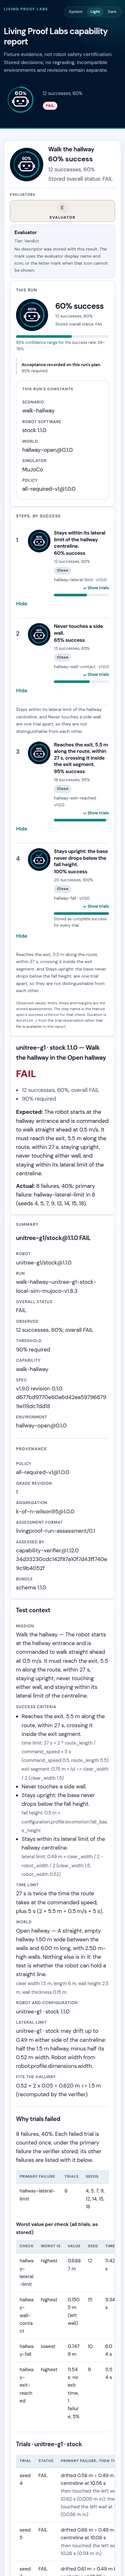
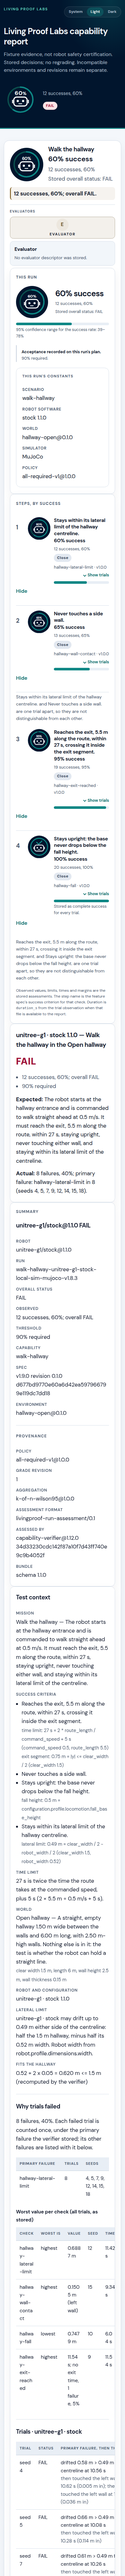
Correct the descriptor-less mark and call out a failed assessment.
The fallback mark no longer invents a tier, and its note only says that
no evaluator descriptor was stored. One satisfied evaluator is singular.
A failed assessment with no findings gets one plain line of successes
and the percentage.

Changed region(s): [[0.1231, 0.0625, 0.9231, 1.0], [0.3077, 0.9375, 0.4308, 1.0], [0.0615, 0.0625, 0.0923, 0.0938]]

diff --git a/docs/evaluator-summary/g1-expanded.html b/docs/evaluator-summary/g1-expanded.html
@@ -1051,8 +1051,14 @@ details[open] > .step-summary .disclose-open { display: inline; }
 .eval-panel h4 { margin: 0 0 0.2rem; font-size: 0.95rem; }
 .eval-panel .purpose, .eval-panel .more { margin: 0.35rem 0 0; }
 .eval-panel .meta, .descriptor-note { margin: 0.2rem 0 0; color: var(--text-muted); font-size: 0.86rem; }
-.callout-ok, .callout-headline { margin: 0.75rem 0 0; }
-.callout-headline { font-weight: 650; }
+.callout-ok, .callout-headline, .assessment-failure { margin: 0.75rem 0 0; }
+.callout-headline, .assessment-failure { font-weight: 650; }
+.assessment-failure {
+  padding: 0.4rem 0.6rem;
+  border-radius: 0.5rem;
+  border-left: 3px solid var(--speak);
+  background: color-mix(in srgb, var(--speak) 8%, var(--surface));
+}
 .callouts { list-style: none; margin: 0.55rem 0 0; padding: 0; display: grid; gap: 0.35rem; }
 .callouts li {
   display: flex;
@@ -1110,7 +1116,7 @@ details[open] > .step-summary .disclose-open { display: inline; }
 <circle cx='591.8' cy='547.9' r='33.2'/>
 <rect x='448' y='620' width='114' height='22' rx='11'/>
 </g>
-</svg></div><div><h2 class='run-title'>Walk the hallway</h2><p class='pct'>60% success</p><p class='count'>12 successes, 60%</p><p class='stored-status'>Stored overall status: FAIL</p></div></div><div class='evaluators'><p class='evaluators-label'>Evaluators</p><div class='eval-row' style='--eval-count:1'><details open class='eval-disclosure' name='run-evaluators' style='--col:1'><summary class='eval-mark is-speaking'><span class='eval-face' role='img' aria-label='Evaluator'><span class='eval-fallback' aria-hidden='true'>E</span></span><span class='eval-name eval-name-full'>Evaluator</span></summary><div class='eval-panel'><h4>Evaluator</h4><p class='meta'>Tier: Verdict</p><p class='descriptor-note'>No descriptor was stored with this result. The mark uses the evaluator display name and icon, or the letter mark when that icon cannot be shown.</p></div><div class='stored-run' style='--eval-count:1'><div class='card scenario-steps'><h2>This run</h2><div class='split'><div><div class='run-hero'><div class='badge'><svg class='success-ring' xmlns='http://www.w3.org/2000/svg' viewBox='0 0 1024 1024' role='img' aria-label='60% success' width='128' height='128'>
+</svg></div><div><h2 class='run-title'>Walk the hallway</h2><p class='pct'>60% success</p><p class='count'>12 successes, 60%</p><p class='stored-status'>Stored overall status: FAIL</p></div></div><p class='assessment-failure'>12 successes, 60%; overall FAIL.</p><div class='evaluators'><p class='evaluators-label'>Evaluators</p><div class='eval-row' style='--eval-count:1'><details open class='eval-disclosure' name='run-evaluators' style='--col:1'><summary class='eval-mark is-speaking'><span class='eval-face' role='img' aria-label='Evaluator'><span class='eval-fallback' aria-hidden='true'>E</span></span><span class='eval-name eval-name-full'>Evaluator</span></summary><div class='eval-panel'><h4>Evaluator</h4><p class='descriptor-note'>No evaluator descriptor was stored.</p></div><div class='stored-run' style='--eval-count:1'><div class='card scenario-steps'><h2>This run</h2><div class='split'><div><div class='run-hero'><div class='badge'><svg class='success-ring' xmlns='http://www.w3.org/2000/svg' viewBox='0 0 1024 1024' role='img' aria-label='60% success' width='128' height='128'>
 <title>60% success</title>
 <circle cx='512' cy='512' r='512' fill='#01152D'/>
 <circle cx='510.5' cy='505.75' r='381.1' fill='none' stroke='#0B4F4D' stroke-width='42'/>

diff --git a/tests/fixtures/robots/g1.html b/tests/fixtures/robots/g1.html
@@ -1051,8 +1051,14 @@ details[open] > .step-summary .disclose-open { display: inline; }
 .eval-panel h4 { margin: 0 0 0.2rem; font-size: 0.95rem; }
 .eval-panel .purpose, .eval-panel .more { margin: 0.35rem 0 0; }
 .eval-panel .meta, .descriptor-note { margin: 0.2rem 0 0; color: var(--text-muted); font-size: 0.86rem; }
-.callout-ok, .callout-headline { margin: 0.75rem 0 0; }
-.callout-headline { font-weight: 650; }
+.callout-ok, .callout-headline, .assessment-failure { margin: 0.75rem 0 0; }
+.callout-headline, .assessment-failure { font-weight: 650; }
+.assessment-failure {
+  padding: 0.4rem 0.6rem;
+  border-radius: 0.5rem;
+  border-left: 3px solid var(--speak);
+  background: color-mix(in srgb, var(--speak) 8%, var(--surface));
+}
 .callouts { list-style: none; margin: 0.55rem 0 0; padding: 0; display: grid; gap: 0.35rem; }
 .callouts li {
   display: flex;
@@ -1110,7 +1116,7 @@ details[open] > .step-summary .disclose-open { display: inline; }
 <circle cx='591.8' cy='547.9' r='33.2'/>
 <rect x='448' y='620' width='114' height='22' rx='11'/>
 </g>
-</svg></div><div><h2 class='run-title'>Walk the hallway</h2><p class='pct'>60% success</p><p class='count'>12 successes, 60%</p><p class='stored-status'>Stored overall status: FAIL</p></div></div><div class='evaluators'><p class='evaluators-label'>Evaluators</p><div class='eval-row' style='--eval-count:1'><details class='eval-disclosure' name='run-evaluators' style='--col:1'><summary class='eval-mark is-speaking'><span class='eval-face' role='img' aria-label='Evaluator'><span class='eval-fallback' aria-hidden='true'>E</span></span><span class='eval-name eval-name-full'>Evaluator</span></summary><div class='eval-panel'><h4>Evaluator</h4><p class='meta'>Tier: Verdict</p><p class='descriptor-note'>No descriptor was stored with this result. The mark uses the evaluator display name and icon, or the letter mark when that icon cannot be shown.</p></div><div class='stored-run' style='--eval-count:1'><div class='card scenario-steps'><h2>This run</h2><div class='split'><div><div class='run-hero'><div class='badge'><svg class='success-ring' xmlns='http://www.w3.org/2000/svg' viewBox='0 0 1024 1024' role='img' aria-label='60% success' width='128' height='128'>
+</svg></div><div><h2 class='run-title'>Walk the hallway</h2><p class='pct'>60% success</p><p class='count'>12 successes, 60%</p><p class='stored-status'>Stored overall status: FAIL</p></div></div><p class='assessment-failure'>12 successes, 60%; overall FAIL.</p><div class='evaluators'><p class='evaluators-label'>Evaluators</p><div class='eval-row' style='--eval-count:1'><details class='eval-disclosure' name='run-evaluators' style='--col:1'><summary class='eval-mark is-speaking'><span class='eval-face' role='img' aria-label='Evaluator'><span class='eval-fallback' aria-hidden='true'>E</span></span><span class='eval-name eval-name-full'>Evaluator</span></summary><div class='eval-panel'><h4>Evaluator</h4><p class='descriptor-note'>No evaluator descriptor was stored.</p></div><div class='stored-run' style='--eval-count:1'><div class='card scenario-steps'><h2>This run</h2><div class='split'><div><div class='run-hero'><div class='badge'><svg class='success-ring' xmlns='http://www.w3.org/2000/svg' viewBox='0 0 1024 1024' role='img' aria-label='60% success' width='128' height='128'>
 <title>60% success</title>
 <circle cx='512' cy='512' r='512' fill='#01152D'/>
 <circle cx='510.5' cy='505.75' r='381.1' fill='none' stroke='#0B4F4D' stroke-width='42'/>

diff --git a/tests/fixtures/robots/go1.html b/tests/fixtures/robots/go1.html
@@ -1051,8 +1051,14 @@ details[open] > .step-summary .disclose-open { display: inline; }
 .eval-panel h4 { margin: 0 0 0.2rem; font-size: 0.95rem; }
 .eval-panel .purpose, .eval-panel .more { margin: 0.35rem 0 0; }
 .eval-panel .meta, .descriptor-note { margin: 0.2rem 0 0; color: var(--text-muted); font-size: 0.86rem; }
-.callout-ok, .callout-headline { margin: 0.75rem 0 0; }
-.callout-headline { font-weight: 650; }
+.callout-ok, .callout-headline, .assessment-failure { margin: 0.75rem 0 0; }
+.callout-headline, .assessment-failure { font-weight: 650; }
+.assessment-failure {
+  padding: 0.4rem 0.6rem;
+  border-radius: 0.5rem;
+  border-left: 3px solid var(--speak);
+  background: color-mix(in srgb, var(--speak) 8%, var(--surface));
+}
 .callouts { list-style: none; margin: 0.55rem 0 0; padding: 0; display: grid; gap: 0.35rem; }
 .callouts li {
   display: flex;
@@ -1110,7 +1116,7 @@ details[open] > .step-summary .disclose-open { display: inline; }
 <circle cx='591.8' cy='547.9' r='33.2'/>
 <rect x='448' y='620' width='114' height='22' rx='11'/>
 </g>
-</svg></div><div><h2 class='run-title'>Walk the hallway</h2><p class='pct'>75% success</p><p class='count'>15 successes, 75%</p><p class='stored-status'>Stored overall status: FAIL</p></div></div><div class='evaluators'><p class='evaluators-label'>Evaluators</p><div class='eval-row' style='--eval-count:1'><details class='eval-disclosure' name='run-evaluators' style='--col:1'><summary class='eval-mark is-speaking'><span class='eval-face' role='img' aria-label='Evaluator'><span class='eval-fallback' aria-hidden='true'>E</span></span><span class='eval-name eval-name-full'>Evaluator</span></summary><div class='eval-panel'><h4>Evaluator</h4><p class='meta'>Tier: Verdict</p><p class='descriptor-note'>No descriptor was stored with this result. The mark uses the evaluator display name and icon, or the letter mark when that icon cannot be shown.</p></div><div class='stored-run' style='--eval-count:1'><div class='card scenario-steps'><h2>This run</h2><div class='split'><div><div class='run-hero'><div class='badge'><svg class='success-ring' xmlns='http://www.w3.org/2000/svg' viewBox='0 0 1024 1024' role='img' aria-label='75% success' width='128' height='128'>
+</svg></div><div><h2 class='run-title'>Walk the hallway</h2><p class='pct'>75% success</p><p class='count'>15 successes, 75%</p><p class='stored-status'>Stored overall status: FAIL</p></div></div><p class='assessment-failure'>15 successes, 75%; overall FAIL.</p><div class='evaluators'><p class='evaluators-label'>Evaluators</p><div class='eval-row' style='--eval-count:1'><details class='eval-disclosure' name='run-evaluators' style='--col:1'><summary class='eval-mark is-speaking'><span class='eval-face' role='img' aria-label='Evaluator'><span class='eval-fallback' aria-hidden='true'>E</span></span><span class='eval-name eval-name-full'>Evaluator</span></summary><div class='eval-panel'><h4>Evaluator</h4><p class='descriptor-note'>No evaluator descriptor was stored.</p></div><div class='stored-run' style='--eval-count:1'><div class='card scenario-steps'><h2>This run</h2><div class='split'><div><div class='run-hero'><div class='badge'><svg class='success-ring' xmlns='http://www.w3.org/2000/svg' viewBox='0 0 1024 1024' role='img' aria-label='75% success' width='128' height='128'>
 <title>75% success</title>
 <circle cx='512' cy='512' r='512' fill='#01152D'/>
 <circle cx='510.5' cy='505.75' r='381.1' fill='none' stroke='#0B4F4D' stroke-width='42'/>

diff --git a/tests/fixtures/robots/t1.html b/tests/fixtures/robots/t1.html
@@ -1051,8 +1051,14 @@ details[open] > .step-summary .disclose-open { display: inline; }
 .eval-panel h4 { margin: 0 0 0.2rem; font-size: 0.95rem; }
 .eval-panel .purpose, .eval-panel .more { margin: 0.35rem 0 0; }
 .eval-panel .meta, .descriptor-note { margin: 0.2rem 0 0; color: var(--text-muted); font-size: 0.86rem; }
-.callout-ok, .callout-headline { margin: 0.75rem 0 0; }
-.callout-headline { font-weight: 650; }
+.callout-ok, .callout-headline, .assessment-failure { margin: 0.75rem 0 0; }
+.callout-headline, .assessment-failure { font-weight: 650; }
+.assessment-failure {
+  padding: 0.4rem 0.6rem;
+  border-radius: 0.5rem;
+  border-left: 3px solid var(--speak);
+  background: color-mix(in srgb, var(--speak) 8%, var(--surface));
+}
 .callouts { list-style: none; margin: 0.55rem 0 0; padding: 0; display: grid; gap: 0.35rem; }
 .callouts li {
   display: flex;
@@ -1110,7 +1116,7 @@ details[open] > .step-summary .disclose-open { display: inline; }
 <circle cx='591.8' cy='547.9' r='33.2'/>
 <rect x='448' y='620' width='114' height='22' rx='11'/>
 </g>
-</svg></div><div><h2 class='run-title'>Walk the hallway</h2><p class='pct'>0% success</p><p class='count'>0 successes, 0%</p><p class='stored-status'>Stored overall status: FAIL</p></div></div><div class='evaluators'><p class='evaluators-label'>Evaluators</p><div class='eval-row' style='--eval-count:1'><details class='eval-disclosure' name='run-evaluators' style='--col:1'><summary class='eval-mark is-speaking'><span class='eval-face' role='img' aria-label='Evaluator'><span class='eval-fallback' aria-hidden='true'>E</span></span><span class='eval-name eval-name-full'>Evaluator</span></summary><div class='eval-panel'><h4>Evaluator</h4><p class='meta'>Tier: Verdict</p><p class='descriptor-note'>No descriptor was stored with this result. The mark uses the evaluator display name and icon, or the letter mark when that icon cannot be shown.</p></div><div class='stored-run' style='--eval-count:1'><div class='card scenario-steps'><h2>This run</h2><div class='split'><div><div class='run-hero'><div class='badge'><svg class='success-ring' xmlns='http://www.w3.org/2000/svg' viewBox='0 0 1024 1024' role='img' aria-label='0% success' width='128' height='128'>
+</svg></div><div><h2 class='run-title'>Walk the hallway</h2><p class='pct'>0% success</p><p class='count'>0 successes, 0%</p><p class='stored-status'>Stored overall status: FAIL</p></div></div><p class='assessment-failure'>0 successes, 0%; overall FAIL.</p><div class='evaluators'><p class='evaluators-label'>Evaluators</p><div class='eval-row' style='--eval-count:1'><details class='eval-disclosure' name='run-evaluators' style='--col:1'><summary class='eval-mark is-speaking'><span class='eval-face' role='img' aria-label='Evaluator'><span class='eval-fallback' aria-hidden='true'>E</span></span><span class='eval-name eval-name-full'>Evaluator</span></summary><div class='eval-panel'><h4>Evaluator</h4><p class='descriptor-note'>No evaluator descriptor was stored.</p></div><div class='stored-run' style='--eval-count:1'><div class='card scenario-steps'><h2>This run</h2><div class='split'><div><div class='run-hero'><div class='badge'><svg class='success-ring' xmlns='http://www.w3.org/2000/svg' viewBox='0 0 1024 1024' role='img' aria-label='0% success' width='128' height='128'>
 <title>0% success</title>
 <circle cx='512' cy='512' r='512' fill='#01152D'/>
 <circle cx='510.5' cy='505.75' r='381.1' fill='none' stroke='#0B4F4D' stroke-width='42'/>

diff --git a/tests/test_evaluator_summary.py b/tests/test_evaluator_summary.py
@@ -123,8 +123,9 @@ def test_ordering_headline_plurals_and_all_quiet():
     assert grouping_headline(1, 1) == "1 evaluator reported 1 problem"
     assert grouping_headline(3, 3) == "3 evaluators reported 3 problems"
     assert grouping_headline(5, 7) == "5 evaluators reported 7 problems"
-    assert all_quiet_line(1) == "All 1 evaluators are satisfied."
+    assert all_quiet_line(1) == "1 evaluator is satisfied."
     assert all_quiet_line(5) == "All 5 evaluators are satisfied."
+    assert "evaluators" not in all_quiet_line(1)
     views = views_from(
         [
             _output("beta", tier="observation", findings=[{"text": "b0"}, {"text": "b1", "tier": "verdict"}]),
@@ -150,6 +151,9 @@ def test_ordering_headline_plurals_and_all_quiet():
         ]
     )
     assert "3 evaluators reported 4 problems" in three
+    quiet_one = _card(outputs=[_output("Alpha", tier="verdict")])
+    assert "1 evaluator is satisfied." in quiet_one
+    assert "evaluators are satisfied" not in quiet_one
     quiet = _card(outputs=[_output("Alpha", tier="verdict"), _output("Beta", tier="review")])
     assert "All 2 evaluators are satisfied." in quiet
     assert "evaluators reported" not in quiet
@@ -180,10 +184,29 @@ def test_non_verdict_findings_do_not_change_the_stored_ring():
     assert ring(verdict) != ring(quiet)
 
 
-def test_g1_shows_one_fallback_mark_and_keeps_the_ring_visible():
+def test_a_failing_assessment_with_no_findings_is_called_out_and_a_pass_is_not():
+    failed = _visible(render(report(bundle("g1")), "html"))
+    line = "<p class='assessment-failure'>12 successes, 60%; overall FAIL.</p>"
+    assert line in failed
+    assert failed.index(line) < failed.index("<details class='eval-disclosure'")
+    panel = failed[failed.index("<div class='eval-panel'>") : failed.index("<div class='stored-run'")]
+    assert "Tier:" not in panel
+    assert panel.count("No evaluator descriptor was stored.") == 1
+    assert "display name" not in panel and "icon" not in panel
+    passed = report(bundle("g1"))
+    passed["summaries"][0]["grade"] = "PASS"
+    passed["summaries"][0]["k"] = passed["summaries"][0]["n"]
+    quiet = render(passed, "html")
+    assert "<p class='assessment-failure'" not in quiet
+    assert "1 evaluator is satisfied." in quiet
+    assert "evaluators are satisfied" not in quiet
     page = render(report(bundle("g1")), "html")
     visible = _visible(page)
-    assert "No descriptor was stored with this result." in visible
+    assert "No evaluator descriptor was stored." in visible
+    assert "display name" not in visible[visible.index("<div class='eval-panel'>"):visible.index("<div class='stored-run'")]
+    panel = visible[visible.index("<div class='eval-panel'>") : visible.index("<div class='stored-run'")]
+    assert "Tier:" not in panel
+    assert "icon" not in panel
     assert "eval-name-full'>Evaluator</span>" in visible
     assert ">E</span>" in visible
     assert "Scenario evaluator" not in visible
@@ -196,6 +219,7 @@ def test_g1_shows_one_fallback_mark_and_keeps_the_ring_visible():
     details = visible.index("<details class='eval-disclosure'")
     assert "<svg class='success-ring'" in visible[:details]
     assert "Walk the hallway" in visible[:details]
+    assert "<p class='assessment-failure'>12 successes, 60%; overall FAIL.</p>" in visible[:details]
     assert "open" not in visible[details : details + 80]
     assert visible.index("<h2>Steps, by success</h2>") > details
     card = visible[visible.index("<article class='summary-card'") :]

diff --git a/src/livingproof_capability_report/evaluators.py b/src/livingproof_capability_report/evaluators.py
@@ -35,10 +35,7 @@ TIER_LABEL = {
     "observation": "Observation",
 }
 RESULT_FORMAT = re.compile(r"^livingproof-evaluator-result/1\.\d+\.\d+$")
-NO_DESCRIPTOR = (
-    "No descriptor was stored with this result. The mark uses the evaluator "
-    "display name and icon, or the letter mark when that icon cannot be shown."
-)
+NO_DESCRIPTOR = "No evaluator descriptor was stored."
 _CHECK = (
     "<svg xmlns='http://www.w3.org/2000/svg' viewBox='0 0 16 16' aria-hidden='true' "
     "focusable='false'><path d='M3.2 8.2 6.1 11.1 12.8 4.4' fill='none' stroke='currentColor' "
@@ -100,6 +97,8 @@ def grouping_headline(n, m):
 
 
 def all_quiet_line(n):
+    if n == 1:
+        return "1 evaluator is satisfied."
     return f"All {n} evaluators are satisfied."
 
 
@@ -399,10 +398,30 @@ def _run_failed(summary):
 
 
 def _fallback_view():
-    view = resolve_one({"tier": "verdict"})
+    view = resolve_one({})
     view["missing_descriptor"] = True
+    view["tier"] = ""
     view["identity"] = FALLBACK_TITLE
     return view
+
+
+def assessment_failure_line(summary):
+    """One plain callout from the assessment when it failed and no finding was stored.
+
+    Successes and the percentage only. No fraction, and no reason the assessment
+    did not record.
+    """
+    if not _run_failed(summary):
+        return ""
+    counted = success_count(summary.get("k"), summary.get("n"))
+    grade = summary.get("grade") if isinstance(summary.get("grade"), str) else ""
+    if counted and grade and grade != "PASS":
+        return f"{counted}; overall {grade}."
+    if counted:
+        return f"{counted}."
+    if grade and grade != "PASS":
+        return f"Overall {grade}."
+    return ""
 
 
 def _hero(report, summary):
@@ -627,7 +646,13 @@ def summary_front(report, stored_body, evidence_results=None):
         view["findings"] or view.get("force_speaking") for view in views
     )
     heroes = "".join(_hero(report, summary) for summary in runs)
+    failure = ""
+    if not any(view["findings"] for view in views):
+        lines = [assessment_failure_line(summary) for summary in runs]
+        failure = "".join(
+            f"<p class='assessment-failure'>{esc(line)}</p>" for line in lines if line
+        )
     return (
         "<article class='summary-card'>"
-        f"{heroes}{render_marks(views, group='run-evaluators', quiet=quiet)}</article>"
+        f"{heroes}{failure}{render_marks(views, group='run-evaluators', quiet=quiet)}</article>"
     )

diff --git a/src/livingproof_capability_report/html_theme.py b/src/livingproof_capability_report/html_theme.py
@@ -969,8 +969,14 @@ details[open] > .step-summary .disclose-open { display: inline; }
 .eval-panel h4 { margin: 0 0 0.2rem; font-size: 0.95rem; }
 .eval-panel .purpose, .eval-panel .more { margin: 0.35rem 0 0; }
 .eval-panel .meta, .descriptor-note { margin: 0.2rem 0 0; color: var(--text-muted); font-size: 0.86rem; }
-.callout-ok, .callout-headline { margin: 0.75rem 0 0; }
-.callout-headline { font-weight: 650; }
+.callout-ok, .callout-headline, .assessment-failure { margin: 0.75rem 0 0; }
+.callout-headline, .assessment-failure { font-weight: 650; }
+.assessment-failure {
+  padding: 0.4rem 0.6rem;
+  border-radius: 0.5rem;
+  border-left: 3px solid var(--speak);
+  background: color-mix(in srgb, var(--speak) 8%, var(--surface));
+}
 .callouts { list-style: none; margin: 0.55rem 0 0; padding: 0; display: grid; gap: 0.35rem; }
 .callouts li {
   display: flex;
